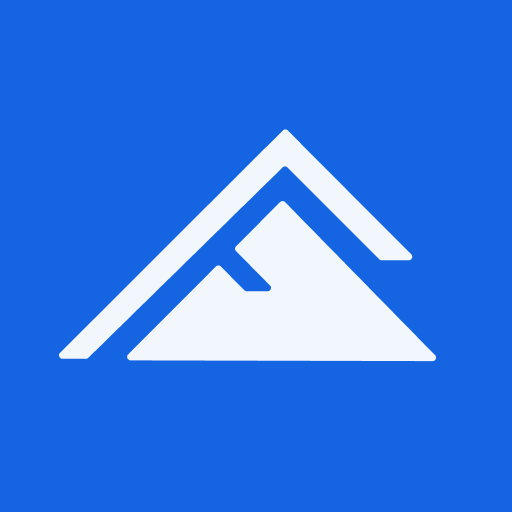
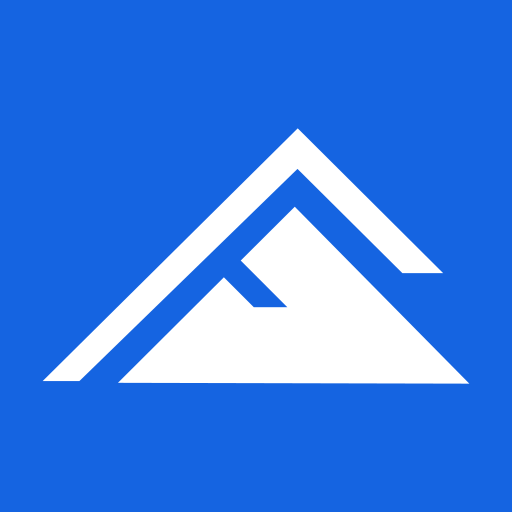
feat: fixed seo images and consistency

Changed region(s): [[0.0938, 0.25, 0.9062, 0.75], [0.4688, 0.5312, 0.5625, 0.625]]

diff --git a/index.html b/index.html
@@ -54,7 +54,7 @@
     />
 
     <link rel="icon" href="/favicon.ico" />
-    <link rel="icon" type="image/svg+xml" href="/images/logo.svg" />
+    <link rel="icon" type="image/svg+xml" href="/images/favicon.svg" />
     <link rel="icon" type="image/png" sizes="32x32" href="/favicon-32x32.png" />
     <link rel="icon" type="image/png" sizes="16x16" href="/favicon-16x16.png" />
     <link rel="icon" type="image/png" sizes="192x192" href="/icon-192.png" />
